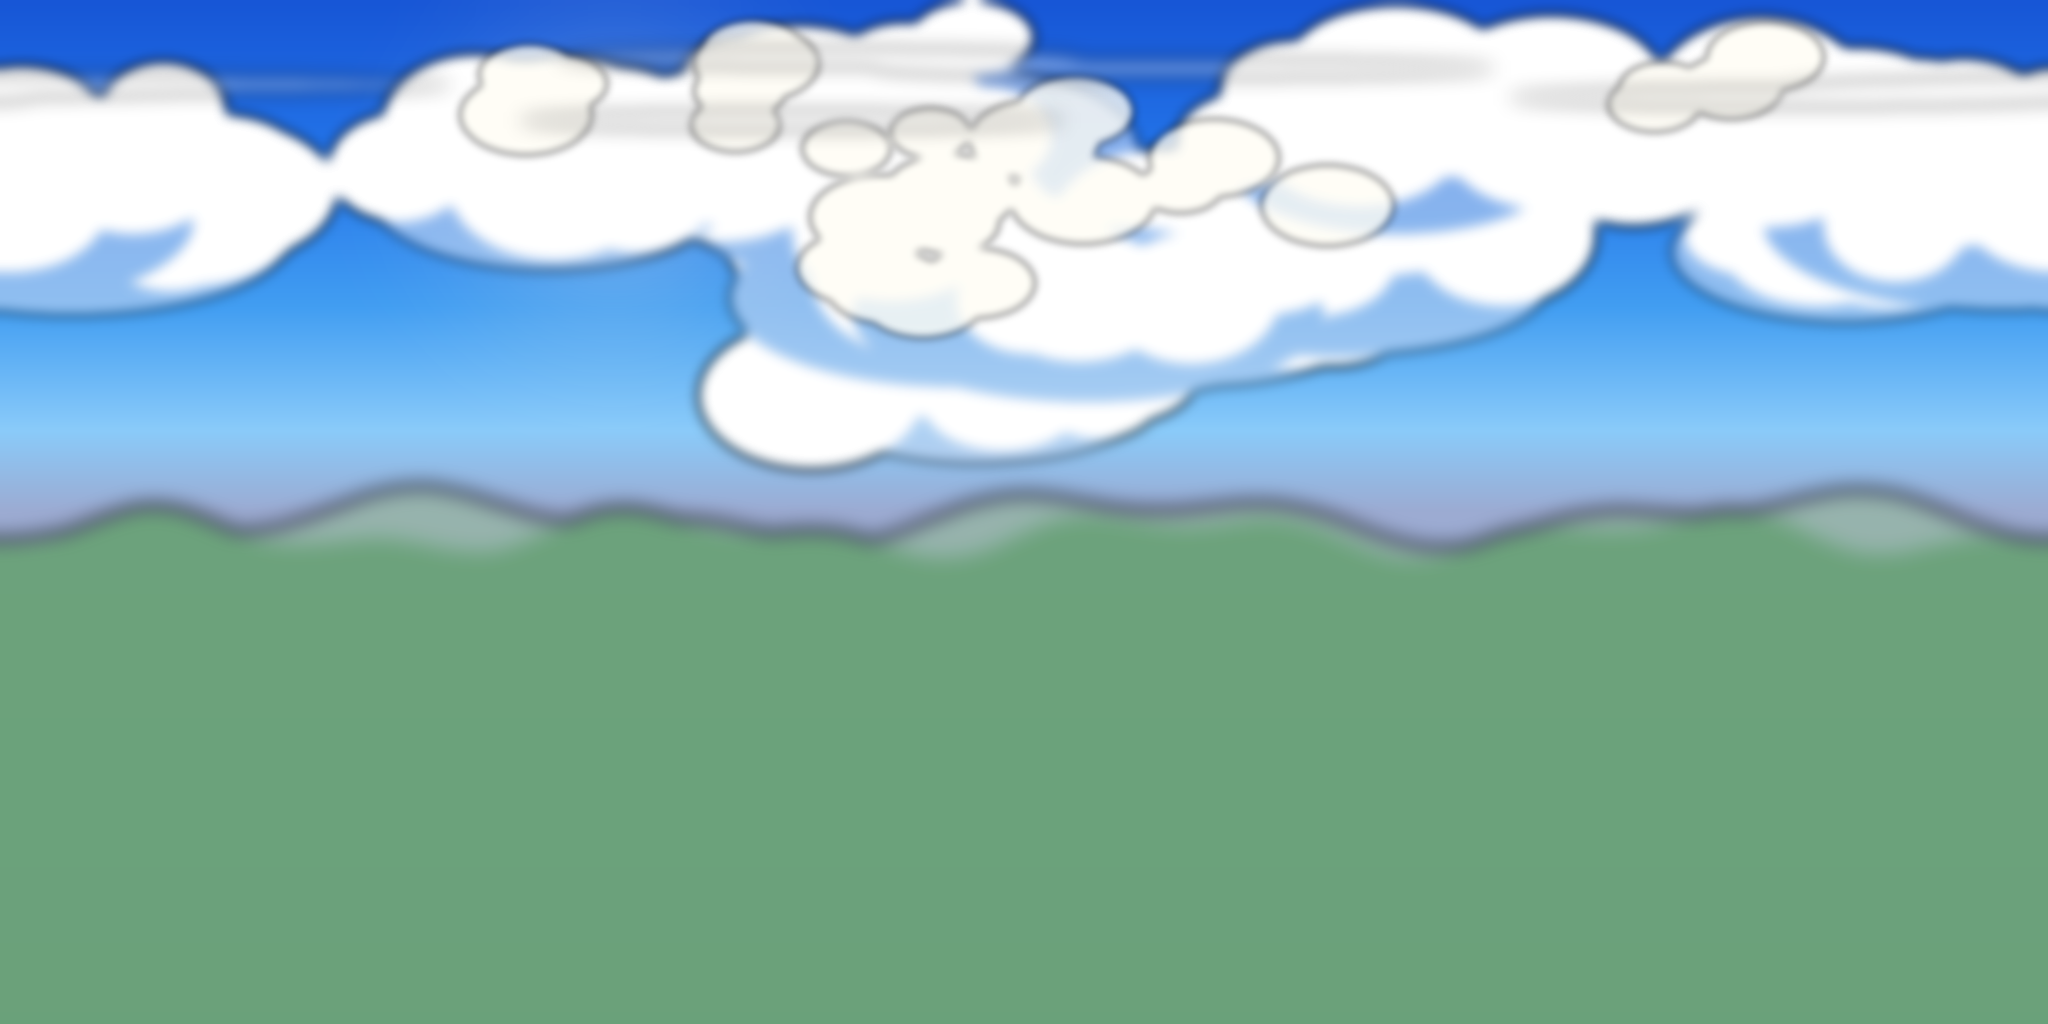
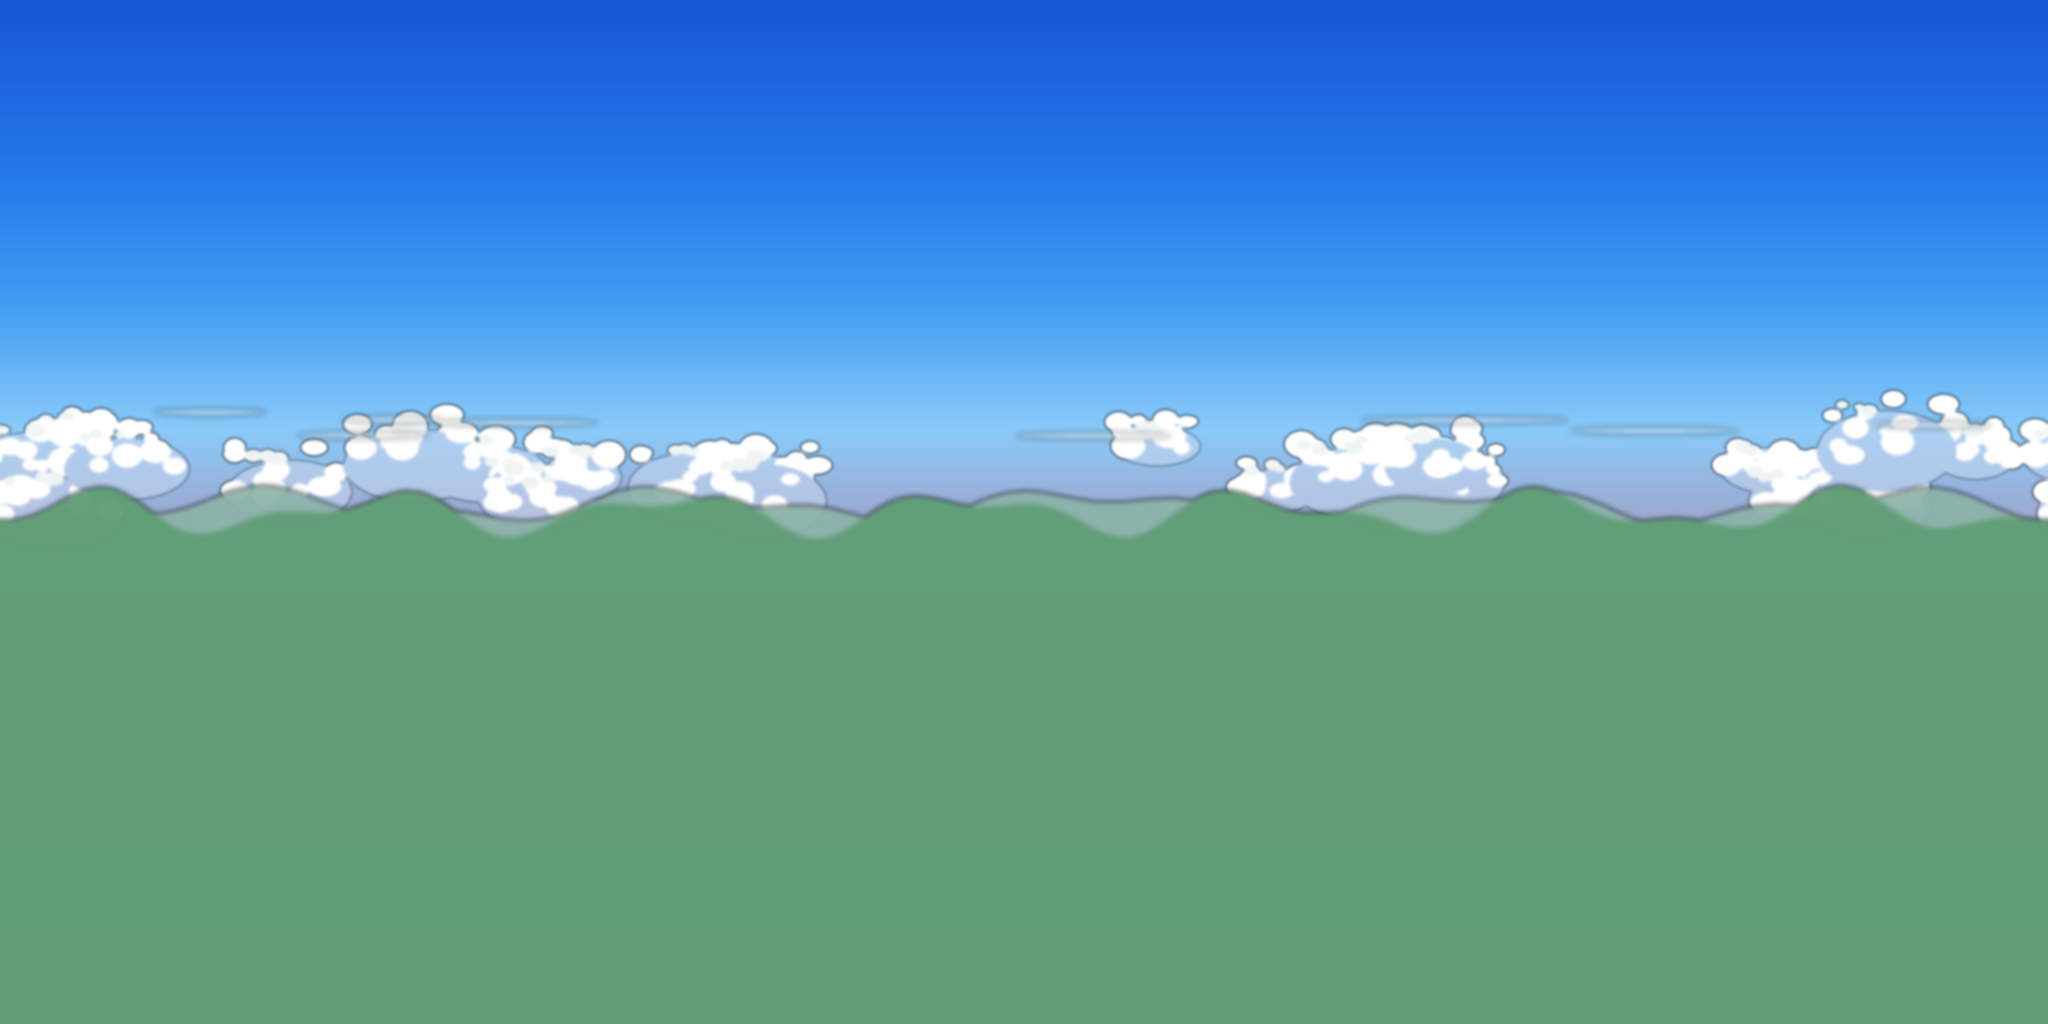
prototype: sky texture v4 (camera-calibrated clouds), CI cutout simulation
- anime-sky.png v4: the fixed game camera magnifies the texture's horizon
  band ~6.8x, so v2/v3's broad clouds read as walls or were invisible.
  v4 paints small detailed cumulus + a modest hill ridge in the actual
  visible band (v 0.42-0.50), verified with a camera-projection simulator.
- StageIndicatorUI: TestSafeAreaOverride hook; CrystalVizScreenshot sets a
  representative 90px top cutout so CI visibly proves the stage icon
  clears the camera cutout (real safeArea is full-bleed in CI).

diff --git a/Assets/CrystalViz/StageIndicatorUI.cs b/Assets/CrystalViz/StageIndicatorUI.cs
@@ -31,6 +31,14 @@ public class StageIndicatorUI : MonoBehaviour
 
     bool initialized;
 
+    /// <summary>
+    /// Test hook for CI: when set, BuildUI uses this rect instead of
+    /// Screen.safeArea, letting the screenshot path simulate a phone camera
+    /// cutout (Screen.safeArea is full-bleed in CI, so the inset would
+    /// otherwise never be exercised). Never set in player builds.
+    /// </summary>
+    internal static Rect? TestSafeAreaOverride = null;
+
     void Awake()
     {
         Initialize();
@@ -142,10 +150,12 @@ public class StageIndicatorUI : MonoBehaviour
         // so it never hides under a notch or punch-hole camera (Tyler's
         // Motorola has a top-center cutout; other phones vary). The inset is
         // converted to reference units for the CanvasScaler (1080x1920).
-        // In the CI screenshot path the safe area is the full game view, so
-        // this is a no-op there and captures stay pixel-identical.
+        // TestSafeAreaOverride lets CI simulate a cutout; in the CI
+        // screenshot path the real safe area is the full game view, so
+        // without the override this is a no-op and captures stay
+        // pixel-identical.
         float topInsetRef = 0f;
-        Rect safe = Screen.safeArea;
+        Rect safe = TestSafeAreaOverride ?? Screen.safeArea;
         if (Screen.height > 0f && safe.yMax < Screen.height)
             topInsetRef = (Screen.height - safe.yMax) / Screen.height * 1920f;
         rootRt.anchoredPosition = new Vector2(0f, -36f - topInsetRef);

diff --git a/Assets/CrystalViz/Editor/CrystalVizScreenshot.cs b/Assets/CrystalViz/Editor/CrystalVizScreenshot.cs
@@ -62,6 +62,12 @@ public static class CrystalVizScreenshot
             EditorApplication.Exit(1);
             return;
         }
+        // Simulate a phone camera cutout: the CI game view is full-bleed,
+        // so Screen.safeArea never insets there. A 90px top cutout on the
+        // 720x1600 capture is representative of a punch-hole camera +
+        // status bar (Tyler's Motorola). This visibly proves the stage
+        // indicator clears the cutout instead of hiding under it.
+        StageIndicatorUI.TestSafeAreaOverride = new Rect(0f, 0f, 720f, 1600f - 90f);
         bootstrap.BuildScene(); // edit-mode equivalent of Awake
 
         // SunOrbitControl IS attached by the bootstrap (player light slider),
